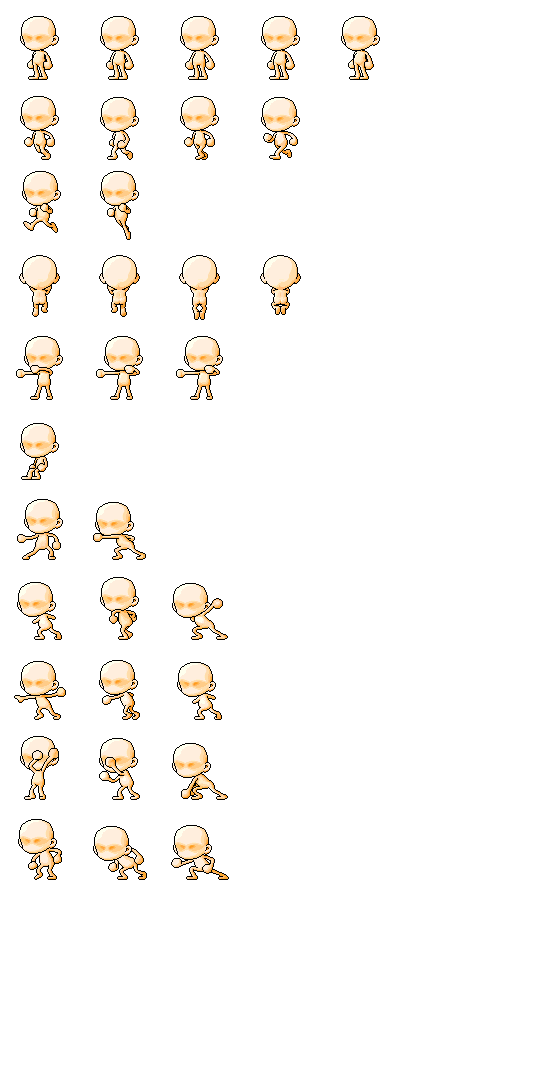
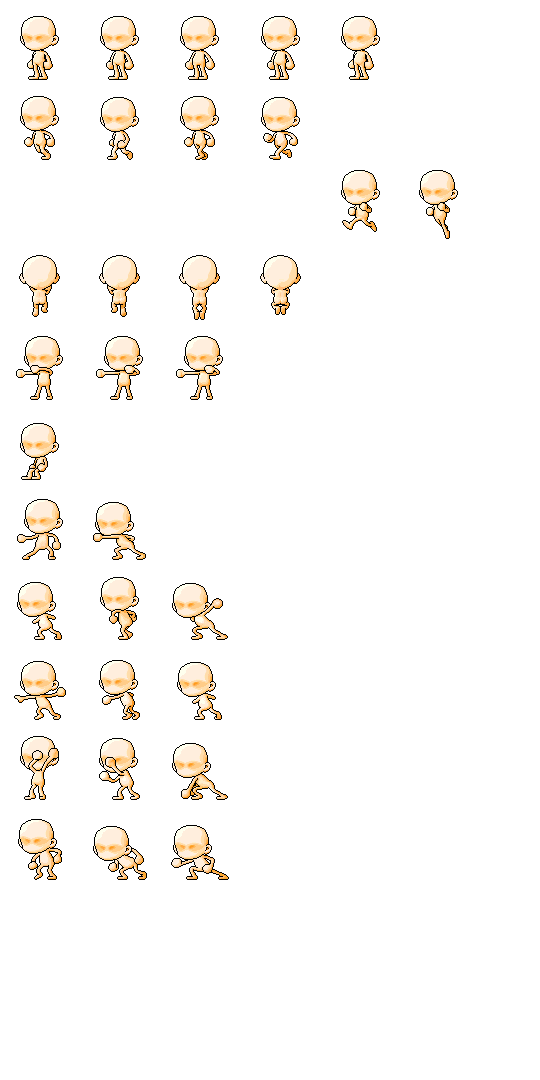
update player sprites
new hairset and playersprite code

diff --git a/XNA_ScreenManager/XNA_ScreenManager/PlayerClasses/PlayerSprite.cs b/XNA_ScreenManager/XNA_ScreenManager/PlayerClasses/PlayerSprite.cs
@@ -485,7 +485,7 @@ namespace XNA_ScreenManager
                             OldPosition = Position;
 
                             // player sprite jump
-                            spriteOfset = new Vector2(spriteFrame.Width * 0, spriteFrame.Height * 2 + 1);
+                            spriteOfset = new Vector2(spriteFrame.Width * 4, spriteFrame.Height * 2);
                             spriteFrame = new Rectangle((int)spriteOfset.X, (int)spriteOfset.Y, spriteFrame.Width, spriteFrame.Height);
 
                             // Apply Gravity + jumping
@@ -512,7 +512,7 @@ namespace XNA_ScreenManager
                     case EntityState.Falling:
                     
                         // player sprite falling
-                        spriteOfset = new Vector2(spriteFrame.Width * 1, spriteFrame.Height * 2 + 1);
+                        spriteOfset = new Vector2(spriteFrame.Width * 5, spriteFrame.Height * 2);
                         spriteFrame = new Rectangle((int)spriteOfset.X, (int)spriteOfset.Y, spriteFrame.Width, spriteFrame.Height);
 
                         if (keyboardStateCurrent.IsKeyDown(Microsoft.Xna.Framework.Input.Keys.Left))

diff --git a/XNA_ScreenManager/XNA_ScreenManager/ItemClasses/ItemStore.cs b/XNA_ScreenManager/XNA_ScreenManager/ItemClasses/ItemStore.cs
@@ -82,6 +82,7 @@ namespace XNA_ScreenManager.ItemClasses
                     }
                     catch (Exception ee)
                     {
+                        string exception = ee.ToString();
                     }
                 }
             }
